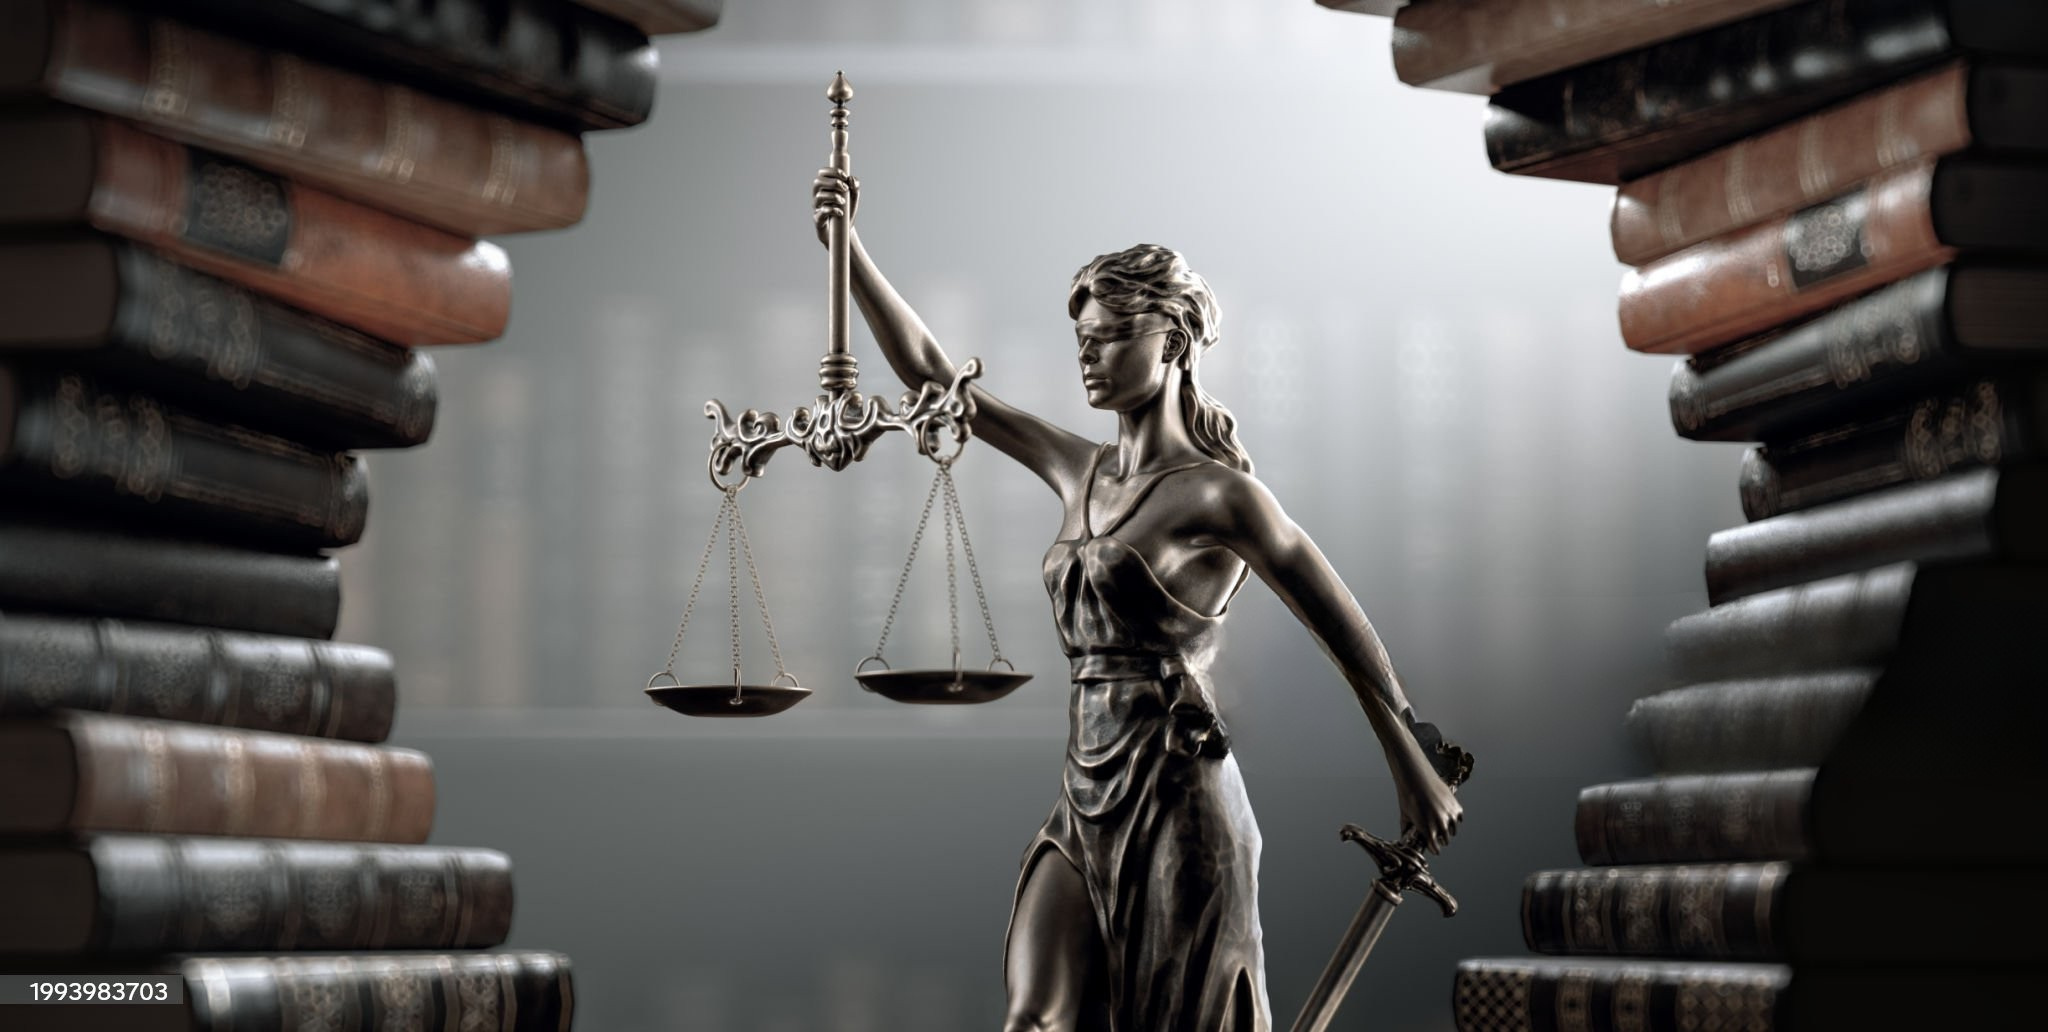
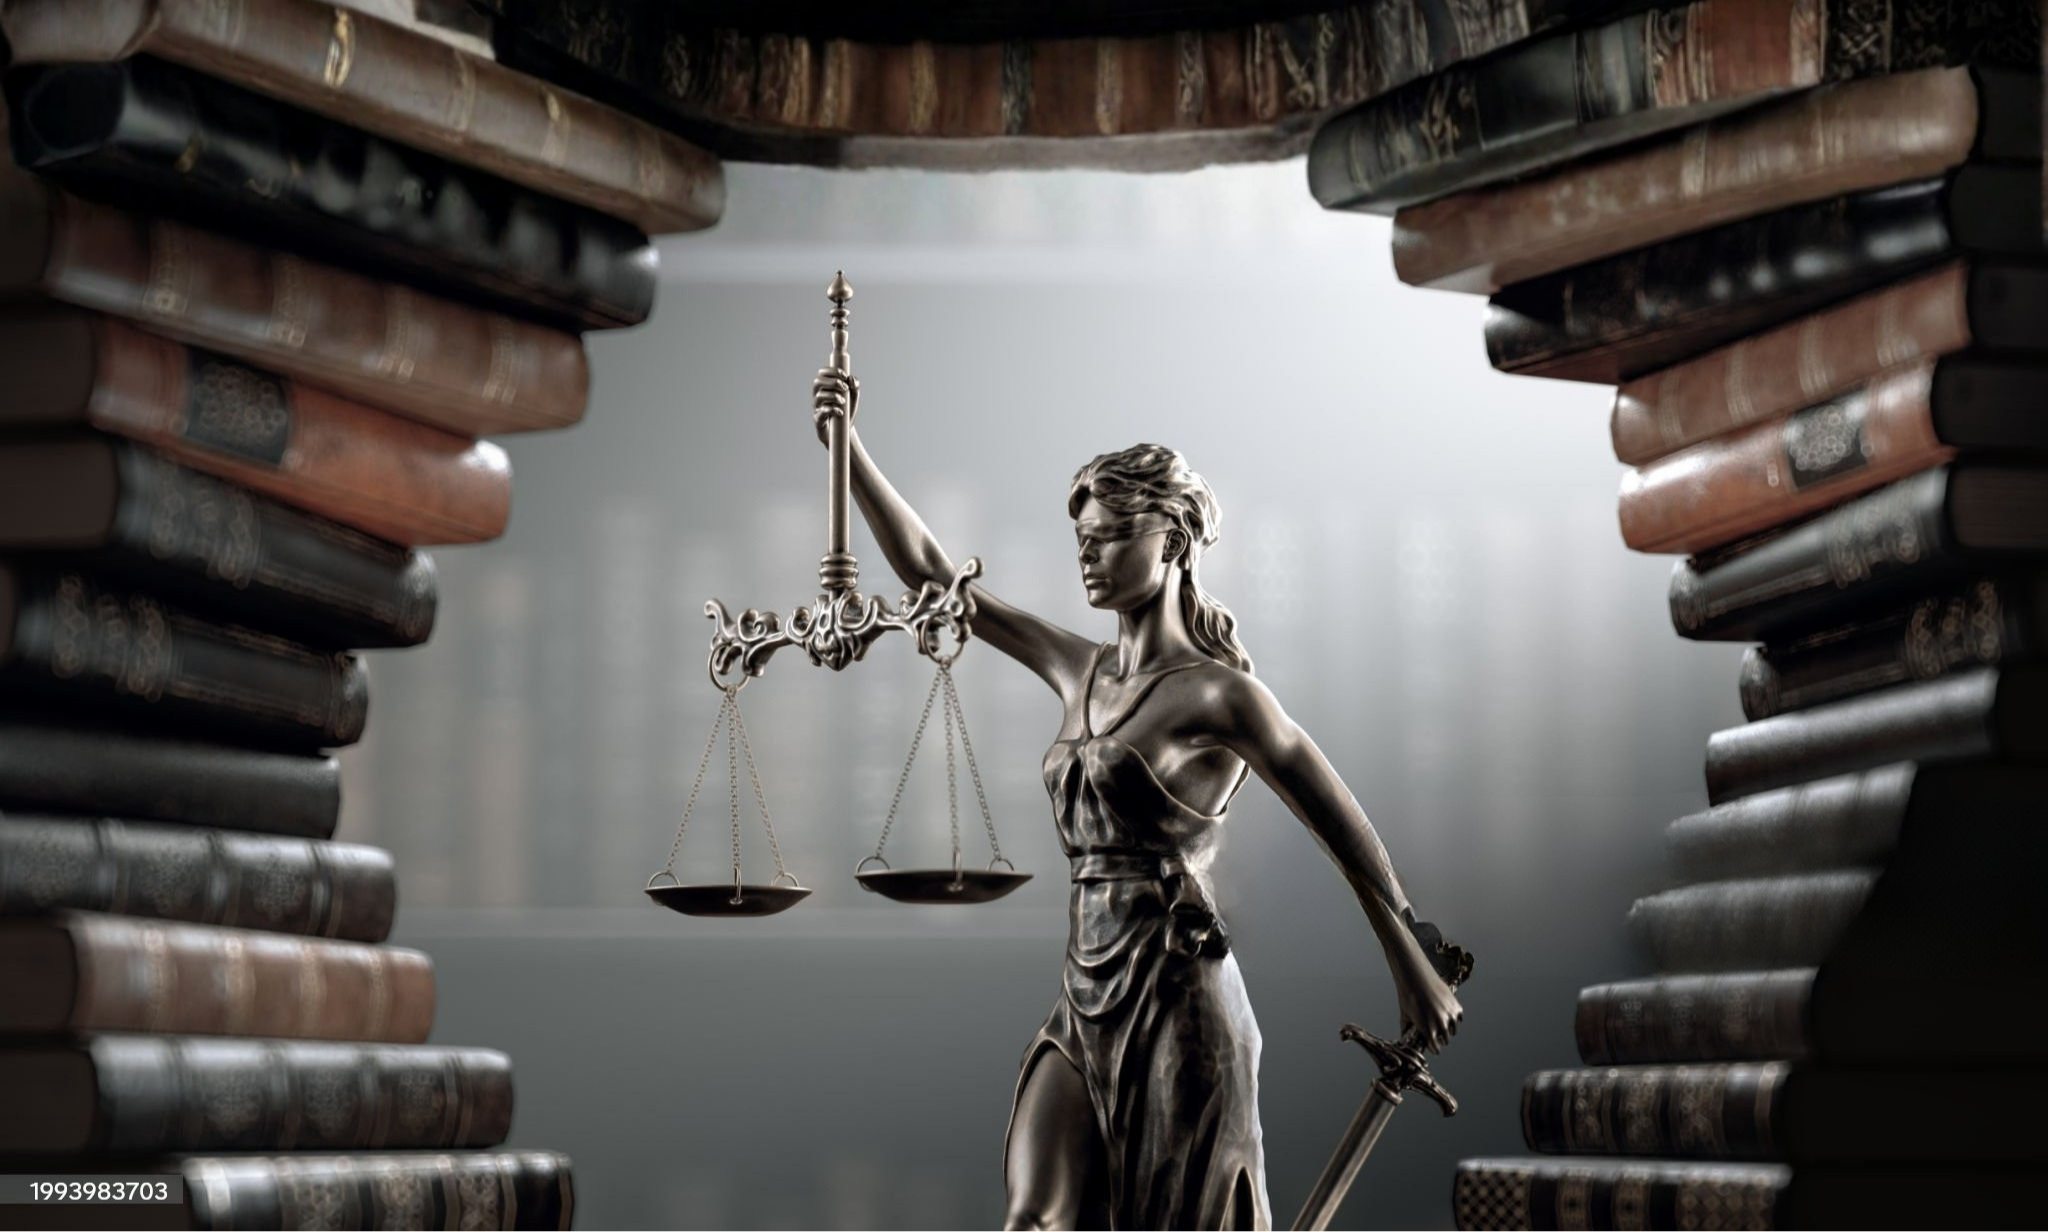
style: transforma os cards em um visual minimalista editorial de luxo e ajusta o fundo

diff --git a/index.html b/index.html
@@ -606,90 +606,119 @@
 
     <!-- SEÇÃO COMO FUNCIONA O ATENDIMENTO -->
     <section id="como-funciona" class="relative py-32 bg-[#080808] overflow-hidden">
-        <!-- Imagem de Fundo com Degradê (Cima para Baixo) -->
-        <!-- Imagem de Fundo com Degradê Corrigido -->
+        <!-- Imagem de Fundo (Ajustada sem top-32 já que a imagem foi alterada) -->
         <div class="absolute inset-0 z-0 bg-[#080808]">
-            <!-- Imagem começando um pouco mais abaixo para não cortar a estátua (top-32 cria a faixa escura) -->
-            <div class="absolute inset-x-0 top-32 bottom-0">
-                <img src="Sessão como trabalhamos.png" alt="Como trabalhamos" class="w-full h-full object-cover object-top opacity-40">
+            <div class="absolute inset-0">
+                <img src="Sessão como trabalhamos.png" alt="Como trabalhamos" class="w-full h-full object-cover object-top opacity-30">
             </div>
             
-            <!-- Degradê escuro do topo para baixo, para mesclar a borda da imagem com a faixa preta -->
-            <div class="absolute inset-x-0 top-32 h-64 bg-gradient-to-b from-[#080808] via-[#080808]/80 to-transparent"></div>
+            <!-- Degradê escuro do topo para baixo para o título -->
+            <div class="absolute inset-x-0 top-0 h-64 bg-gradient-to-b from-[#080808] via-[#080808]/90 to-transparent"></div>
             
-            <!-- Degradê leve de baixo para cima, apenas para dar contraste aos cards -->
-            <div class="absolute inset-x-0 bottom-0 h-1/2 bg-gradient-to-t from-[#080808]/60 to-transparent"></div>
+            <!-- Degradê para mesclar com a próxima seção -->
+            <div class="absolute inset-x-0 bottom-0 h-48 bg-gradient-to-t from-[#080808] to-transparent"></div>
         </div>
 
         <div class="relative z-10 max-w-7xl mx-auto px-6">
             <!-- Título da Seção -->
-            <div class="mb-20 text-center flex flex-col items-center">
+            <div class="mb-24 text-center flex flex-col items-center">
                 <div class="w-16 h-1 bg-gradient-to-r from-transparent via-gold to-transparent mb-6"></div>
                 <h2 class="font-heading text-4xl md:text-5xl text-white font-bold tracking-wide drop-shadow-md">
                     COMO FUNCIONA O <br><span class="text-transparent bg-clip-text bg-gradient-to-r from-gold-light to-gold">ATENDIMENTO</span>
                 </h2>
             </div>
 
-            <!-- Cards Sofisticados (Dark Premium) -->
-            <div class="grid grid-cols-1 md:grid-cols-2 lg:grid-cols-4 gap-8">
+            <!-- Cards Diferenciados (Minimalismo Editorial) -->
+            <div class="grid grid-cols-1 md:grid-cols-2 lg:grid-cols-4 gap-x-8 gap-y-16 mt-16 relative">
                 
-                <!-- Card 1 -->
-                <div class="bg-[#0a0a0a]/80 backdrop-blur-xl border border-white/5 rounded-2xl p-8 text-center hover:-translate-y-3 transition-all duration-500 group shadow-[0_10px_40px_rgba(0,0,0,0.8)] hover:border-gold/40 hover:shadow-[0_0_30px_rgba(212,175,55,0.15)] relative overflow-hidden">
-                    <!-- Detalhe Luminoso no Topo -->
-                    <div class="absolute top-0 left-1/4 right-1/4 h-[2px] bg-gradient-to-r from-transparent via-gold/50 to-transparent opacity-0 group-hover:opacity-100 transition-opacity duration-500"></div>
-                    
-                    <div class="mx-auto w-20 h-20 bg-gradient-to-br from-[#1a1a1a] to-[#050505] rounded-full flex items-center justify-center mb-8 group-hover:scale-110 group-hover:shadow-[0_0_25px_rgba(212,175,55,0.3)] border border-white/5 group-hover:border-gold/50 transition-all duration-500">
-                        <i data-lucide="message-circle" class="w-8 h-8 text-silver group-hover:text-gold transition-colors duration-500"></i>
+                <!-- Linha conectora no fundo (visível apenas desktop) -->
+                <div class="hidden lg:block absolute top-12 left-0 w-full h-[1px] bg-gradient-to-r from-gold/0 via-gold/30 to-gold/0 z-0"></div>
+
+                <!-- Passo 1 -->
+                <div class="relative group pt-12">
+                    <!-- Huge Number Background -->
+                    <div class="absolute -top-16 -left-2 text-[140px] font-heading font-black text-white/[0.02] group-hover:text-gold/[0.05] group-hover:-translate-y-3 transition-all duration-700 pointer-events-none select-none leading-none z-0">
+                        01
                     </div>
-                    <h3 class="font-heading text-xl font-bold text-white mb-4 tracking-wide group-hover:text-gold-light transition-colors duration-500">1. Contato</h3>
-                    <p class="text-silver/80 font-light leading-relaxed text-sm">
-                        Você chama no WhatsApp e relata sua situação
-                    </p>
+                    
+                    <div class="relative z-10 border-t border-white/10 group-hover:border-gold/50 pt-8 transition-colors duration-500">
+                        <!-- Ícone Flutuante na Borda -->
+                        <div class="absolute -top-7 left-6 w-14 h-14 bg-[#080808] border border-gold/30 rounded-full flex items-center justify-center group-hover:scale-110 group-hover:shadow-[0_0_20px_rgba(212,175,55,0.4)] transition-all duration-500">
+                            <i data-lucide="message-circle" class="w-6 h-6 text-gold"></i>
+                        </div>
+                        
+                        <h3 class="font-heading text-2xl font-bold text-white mb-4 tracking-wide group-hover:text-gold-light transition-colors duration-500">Contato Inicial</h3>
+                        <p class="text-silver/80 font-light leading-relaxed text-sm">
+                            Você chama no WhatsApp e relata sua situação de forma detalhada e segura.
+                        </p>
+                    </div>
                 </div>
 
-                <!-- Card 2 -->
-                <div class="bg-[#0a0a0a]/80 backdrop-blur-xl border border-white/5 rounded-2xl p-8 text-center hover:-translate-y-3 transition-all duration-500 group shadow-[0_10px_40px_rgba(0,0,0,0.8)] hover:border-gold/40 hover:shadow-[0_0_30px_rgba(212,175,55,0.15)] relative overflow-hidden">
-                    <div class="absolute top-0 left-1/4 right-1/4 h-[2px] bg-gradient-to-r from-transparent via-gold/50 to-transparent opacity-0 group-hover:opacity-100 transition-opacity duration-500"></div>
-                    
-                    <div class="mx-auto w-20 h-20 bg-gradient-to-br from-[#1a1a1a] to-[#050505] rounded-full flex items-center justify-center mb-8 group-hover:scale-110 group-hover:shadow-[0_0_25px_rgba(212,175,55,0.3)] border border-white/5 group-hover:border-gold/50 transition-all duration-500">
-                        <i data-lucide="search" class="w-8 h-8 text-silver group-hover:text-gold transition-colors duration-500"></i>
+                <!-- Passo 2 -->
+                <div class="relative group pt-12 lg:mt-12">
+                    <!-- Huge Number Background -->
+                    <div class="absolute -top-16 -left-2 text-[140px] font-heading font-black text-white/[0.02] group-hover:text-gold/[0.05] group-hover:-translate-y-3 transition-all duration-700 pointer-events-none select-none leading-none z-0">
+                        02
                     </div>
-                    <h3 class="font-heading text-xl font-bold text-white mb-4 tracking-wide group-hover:text-gold-light transition-colors duration-500">2. Análise</h3>
-                    <p class="text-silver/80 font-light leading-relaxed text-sm">
-                        O escritório analisa o seu caso
-                    </p>
+                    
+                    <div class="relative z-10 border-t border-white/10 group-hover:border-gold/50 pt-8 transition-colors duration-500">
+                        <!-- Ícone Flutuante na Borda -->
+                        <div class="absolute -top-7 left-6 w-14 h-14 bg-[#080808] border border-gold/30 rounded-full flex items-center justify-center group-hover:scale-110 group-hover:shadow-[0_0_20px_rgba(212,175,55,0.4)] transition-all duration-500">
+                            <i data-lucide="search" class="w-6 h-6 text-gold"></i>
+                        </div>
+                        
+                        <h3 class="font-heading text-2xl font-bold text-white mb-4 tracking-wide group-hover:text-gold-light transition-colors duration-500">Análise Tática</h3>
+                        <p class="text-silver/80 font-light leading-relaxed text-sm">
+                            Nossa equipe estuda meticulosamente os detalhes e viabilidade do seu caso.
+                        </p>
+                    </div>
                 </div>
 
-                <!-- Card 3 -->
-                <div class="bg-[#0a0a0a]/80 backdrop-blur-xl border border-white/5 rounded-2xl p-8 text-center hover:-translate-y-3 transition-all duration-500 group shadow-[0_10px_40px_rgba(0,0,0,0.8)] hover:border-gold/40 hover:shadow-[0_0_30px_rgba(212,175,55,0.15)] relative overflow-hidden">
-                    <div class="absolute top-0 left-1/4 right-1/4 h-[2px] bg-gradient-to-r from-transparent via-gold/50 to-transparent opacity-0 group-hover:opacity-100 transition-opacity duration-500"></div>
-                    
-                    <div class="mx-auto w-20 h-20 bg-gradient-to-br from-[#1a1a1a] to-[#050505] rounded-full flex items-center justify-center mb-8 group-hover:scale-110 group-hover:shadow-[0_0_25px_rgba(212,175,55,0.3)] border border-white/5 group-hover:border-gold/50 transition-all duration-500">
-                        <i data-lucide="map" class="w-8 h-8 text-silver group-hover:text-gold transition-colors duration-500"></i>
+                <!-- Passo 3 -->
+                <div class="relative group pt-12">
+                    <!-- Huge Number Background -->
+                    <div class="absolute -top-16 -left-2 text-[140px] font-heading font-black text-white/[0.02] group-hover:text-gold/[0.05] group-hover:-translate-y-3 transition-all duration-700 pointer-events-none select-none leading-none z-0">
+                        03
                     </div>
-                    <h3 class="font-heading text-xl font-bold text-white mb-4 tracking-wide group-hover:text-gold-light transition-colors duration-500">3. Estratégia</h3>
-                    <p class="text-silver/80 font-light leading-relaxed text-sm">
-                        Definimos juntos o melhor caminho jurídico
-                    </p>
+                    
+                    <div class="relative z-10 border-t border-white/10 group-hover:border-gold/50 pt-8 transition-colors duration-500">
+                        <!-- Ícone Flutuante na Borda -->
+                        <div class="absolute -top-7 left-6 w-14 h-14 bg-[#080808] border border-gold/30 rounded-full flex items-center justify-center group-hover:scale-110 group-hover:shadow-[0_0_20px_rgba(212,175,55,0.4)] transition-all duration-500">
+                            <i data-lucide="map" class="w-6 h-6 text-gold"></i>
+                        </div>
+                        
+                        <h3 class="font-heading text-2xl font-bold text-white mb-4 tracking-wide group-hover:text-gold-light transition-colors duration-500">Estratégia</h3>
+                        <p class="text-silver/80 font-light leading-relaxed text-sm">
+                            Apresentamos as soluções e definimos juntos o caminho jurídico mais agressivo.
+                        </p>
+                    </div>
                 </div>
 
-                <!-- Card 4 -->
-                <div class="bg-[#0a0a0a]/80 backdrop-blur-xl border border-white/5 rounded-2xl p-8 text-center hover:-translate-y-3 transition-all duration-500 group shadow-[0_10px_40px_rgba(0,0,0,0.8)] hover:border-gold/40 hover:shadow-[0_0_30px_rgba(212,175,55,0.15)] relative overflow-hidden">
-                    <div class="absolute top-0 left-1/4 right-1/4 h-[2px] bg-gradient-to-r from-transparent via-gold/50 to-transparent opacity-0 group-hover:opacity-100 transition-opacity duration-500"></div>
-                    
-                    <div class="mx-auto w-20 h-20 bg-gradient-to-br from-[#1a1a1a] to-[#050505] rounded-full flex items-center justify-center mb-8 group-hover:scale-110 group-hover:shadow-[0_0_25px_rgba(212,175,55,0.3)] border border-white/5 group-hover:border-gold/50 transition-all duration-500">
-                        <i data-lucide="shield-check" class="w-8 h-8 text-silver group-hover:text-gold transition-colors duration-500"></i>
+                <!-- Passo 4 -->
+                <div class="relative group pt-12 lg:mt-12">
+                    <!-- Huge Number Background -->
+                    <div class="absolute -top-16 -left-2 text-[140px] font-heading font-black text-white/[0.02] group-hover:text-gold/[0.05] group-hover:-translate-y-3 transition-all duration-700 pointer-events-none select-none leading-none z-0">
+                        04
                     </div>
-                    <h3 class="font-heading text-xl font-bold text-white mb-4 tracking-wide group-hover:text-gold-light transition-colors duration-500">4. Ação</h3>
-                    <p class="text-silver/80 font-light leading-relaxed text-sm">
-                        Cuidamos de todo o processo, com acompanhamento próximo
-                    </p>
+                    
+                    <div class="relative z-10 border-t border-white/10 group-hover:border-gold/50 pt-8 transition-colors duration-500">
+                        <!-- Ícone Flutuante na Borda -->
+                        <div class="absolute -top-7 left-6 w-14 h-14 bg-[#080808] border border-gold/30 rounded-full flex items-center justify-center group-hover:scale-110 group-hover:shadow-[0_0_20px_rgba(212,175,55,0.4)] transition-all duration-500">
+                            <i data-lucide="shield-check" class="w-6 h-6 text-gold"></i>
+                        </div>
+                        
+                        <h3 class="font-heading text-2xl font-bold text-white mb-4 tracking-wide group-hover:text-gold-light transition-colors duration-500">Execução</h3>
+                        <p class="text-silver/80 font-light leading-relaxed text-sm">
+                            Cuidamos de todo o processo judicial, com relatórios constantes do avanço.
+                        </p>
+                    </div>
                 </div>
+
             </div>
         </div>
     </section>
     
-    <!-- Scripts de inicialização -->
+    <!-- Scripts de inicialização --><!-- Scripts de inicialização -->
     <script>
         // Inicializar Lucide Icons
         lucide.createIcons();